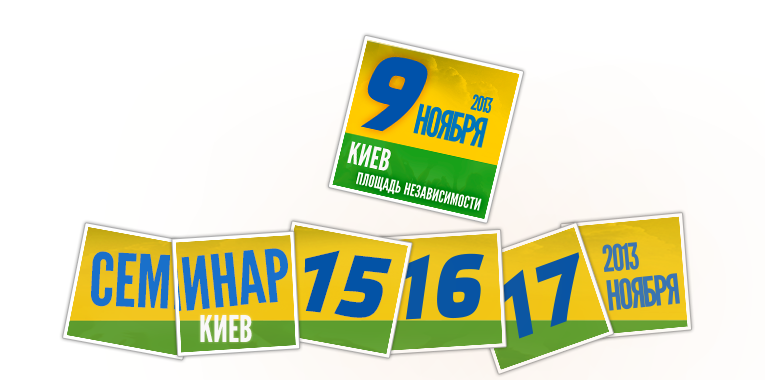
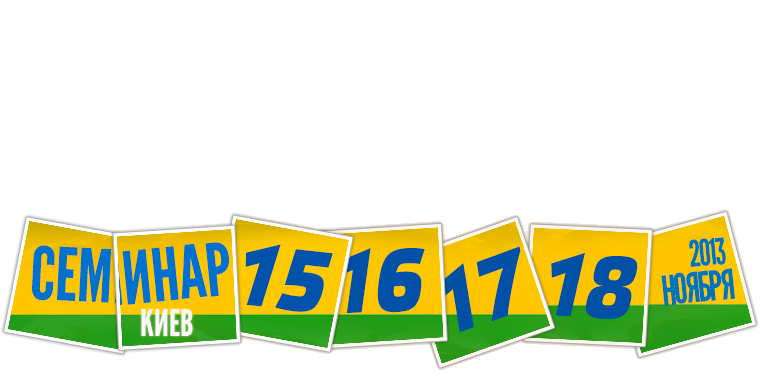
added kiev, change seminar footer

diff --git a/index.html b/index.html
@@ -3,7 +3,7 @@
 
 <head>
     <meta charset='utf-8' />
-    <title>Мы едины - Харьков</title>
+    <title>Мы едины - Киев</title>
     <link href='http://myediny.com/favicon.ico' rel='icon' type='image/x-icon' />
     <link href='http://myediny.com/favicon.ico' rel='shortcut icon' type='image/x-icon' />
     <link href='style/magnific-popup.css' rel='stylesheet' type='text/css' />
@@ -16,7 +16,7 @@
 
 <body>
     <header>
-        <div id='logo' data-city='kirovograd' data-city-title='Кировоград'></div>
+        <div id='logo' data-city='kiev' data-city-title='Киев'></div>
         <div class='social'>
             <a href='https://www.facebook.com/myed1ny' class='facebook' target='_blank'></a>
             <a href='https://twitter.com/myed1ny' class='twitter' target='_blank'></a>
@@ -34,6 +34,7 @@
             </div>
         </div>
         <ul id='past-list'>
+            <li class='concert' data-city='kirovograd' data-city-title='Кировоград'></li>
             <li class='concert' data-city='harkov' data-city-title='Харьков'></li>
             <li class='concert' data-city='donetsk' data-city-title='Донецк'></li>
             <li class='concert' data-city='luhansk' data-city-title='Луганск'></li>

diff --git a/style/seminar.scss b/style/seminar.scss
@@ -9,7 +9,6 @@ section.middle {
   }
   .frame {
     display: block;
-    margin-bottom: -170px;
     background-image: url($img + 'frame/seminar.png'), url($img + 'frame/footer.png');
     .middle {
     	article.content {
@@ -22,8 +21,10 @@ section.middle {
 		    	}
     		}
 	    	&#form {
+          text-align: center;
 	    		iframe {
-	    			width: 100%;
+	    			width: 611px;
+            height: 1010px;
 	    		}
 	    	}
     	}

diff --git a/style/_common.scss b/style/_common.scss
@@ -55,7 +55,10 @@ header {
 }
 
 section.middle {
-  margin-top: -290px;
+  margin: {
+    top: -290px;
+    bottom: -170px;
+  }
   .frame {
   	margin: 0 auto;
     padding: {

diff --git a/style/index.scss b/style/index.scss
@@ -59,6 +59,6 @@ footer .calendar {
       position: absolute;
       bottom: 0;
       width: 100%;
-      height: 168px;
+      height: 169px;
     }
 }
